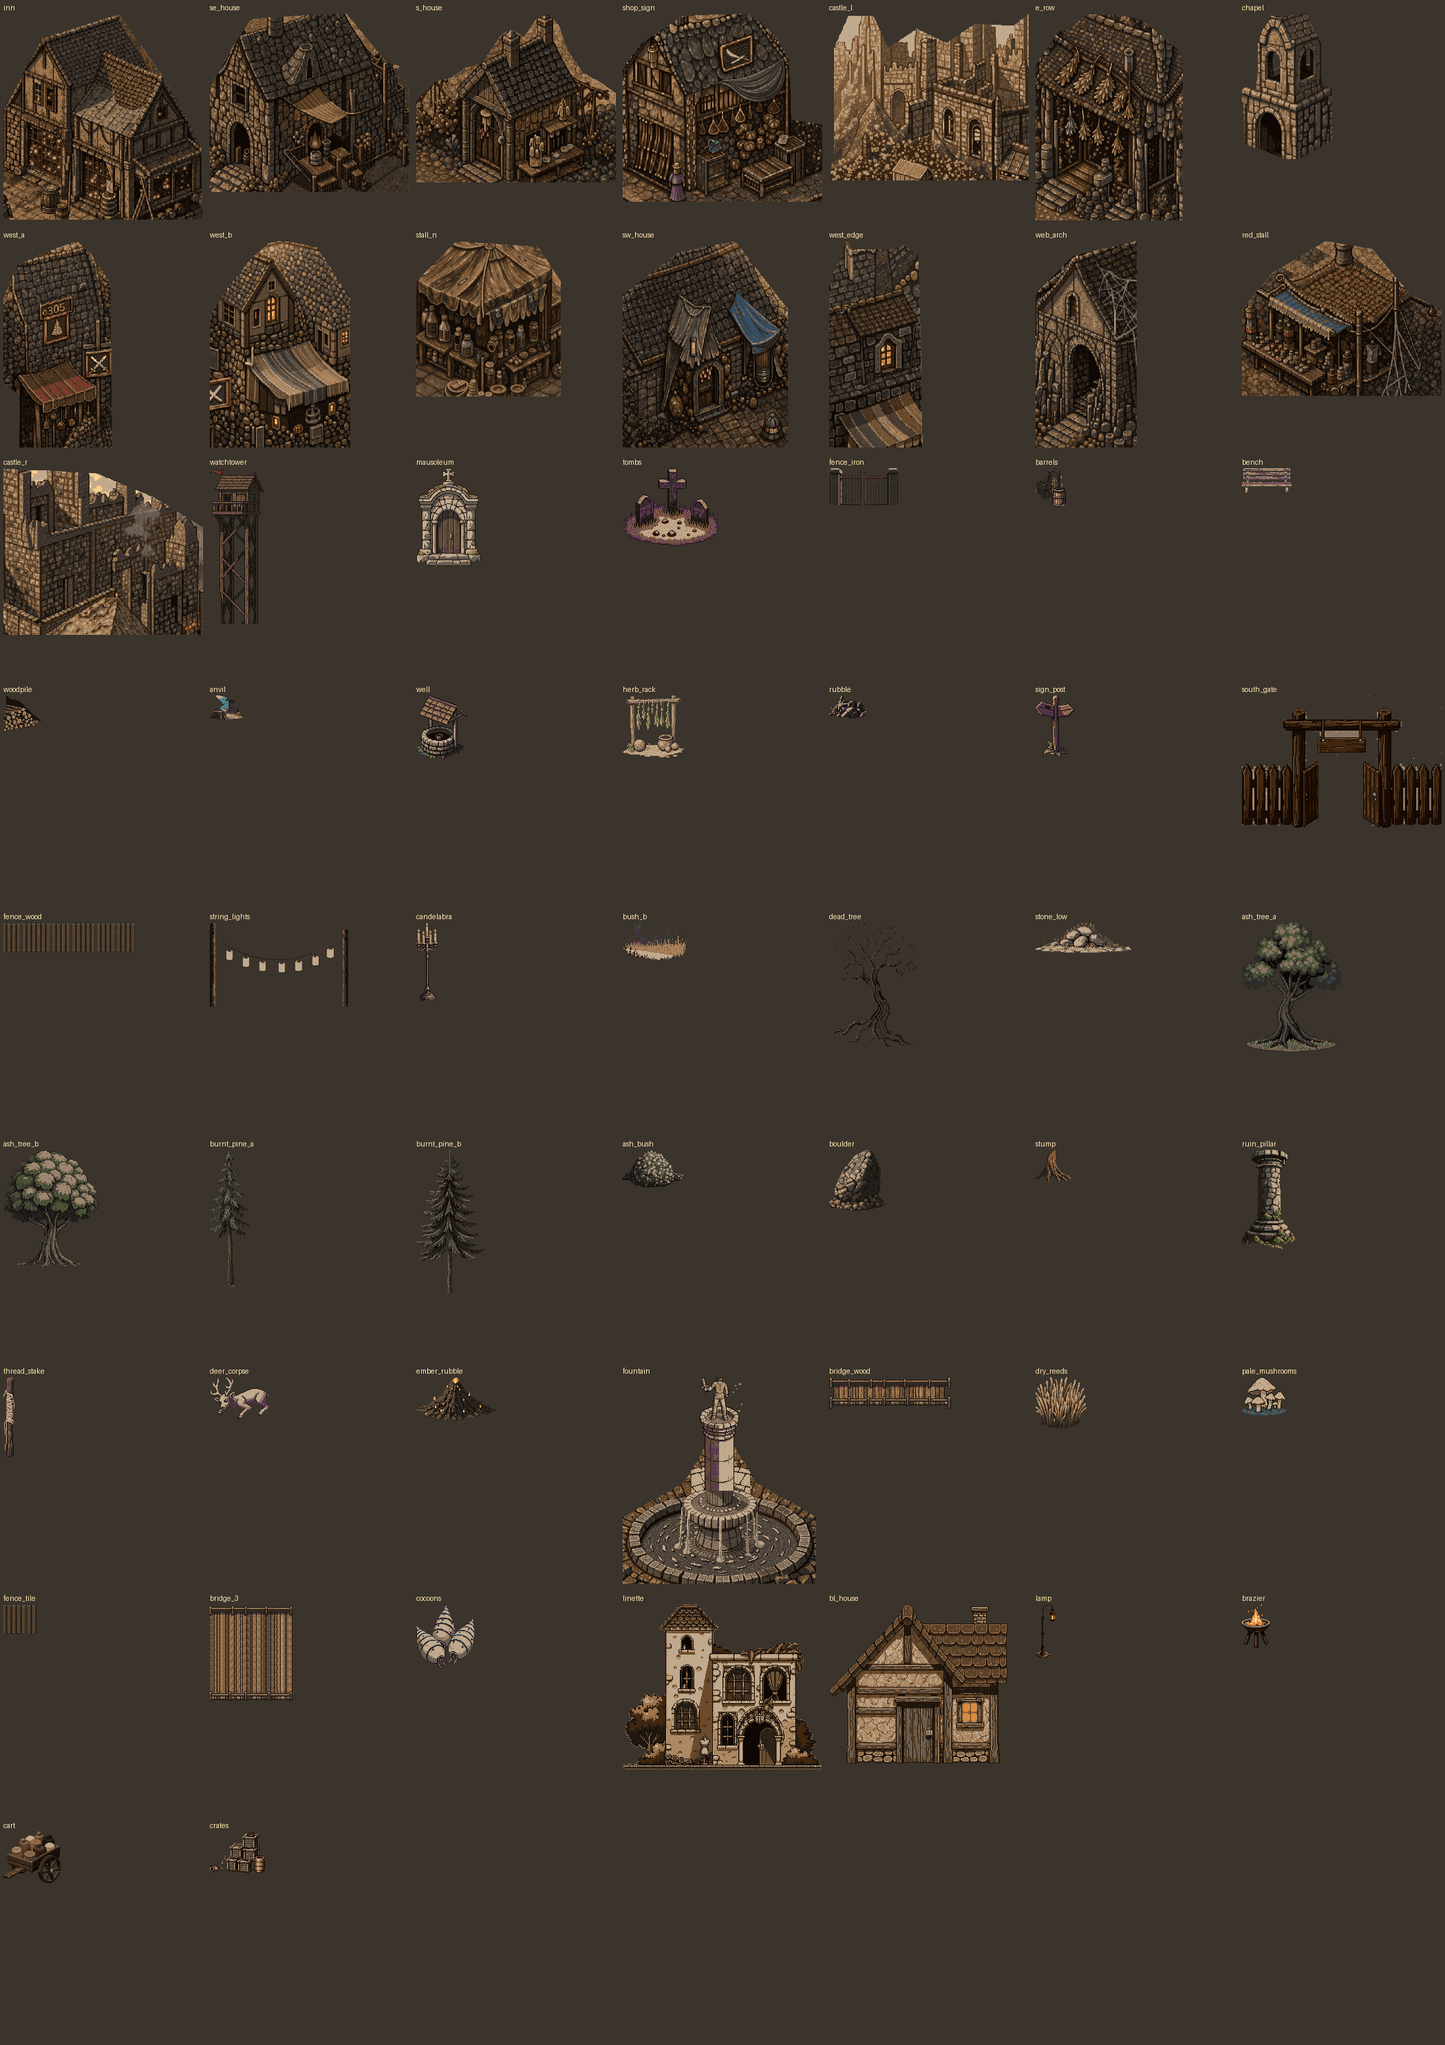
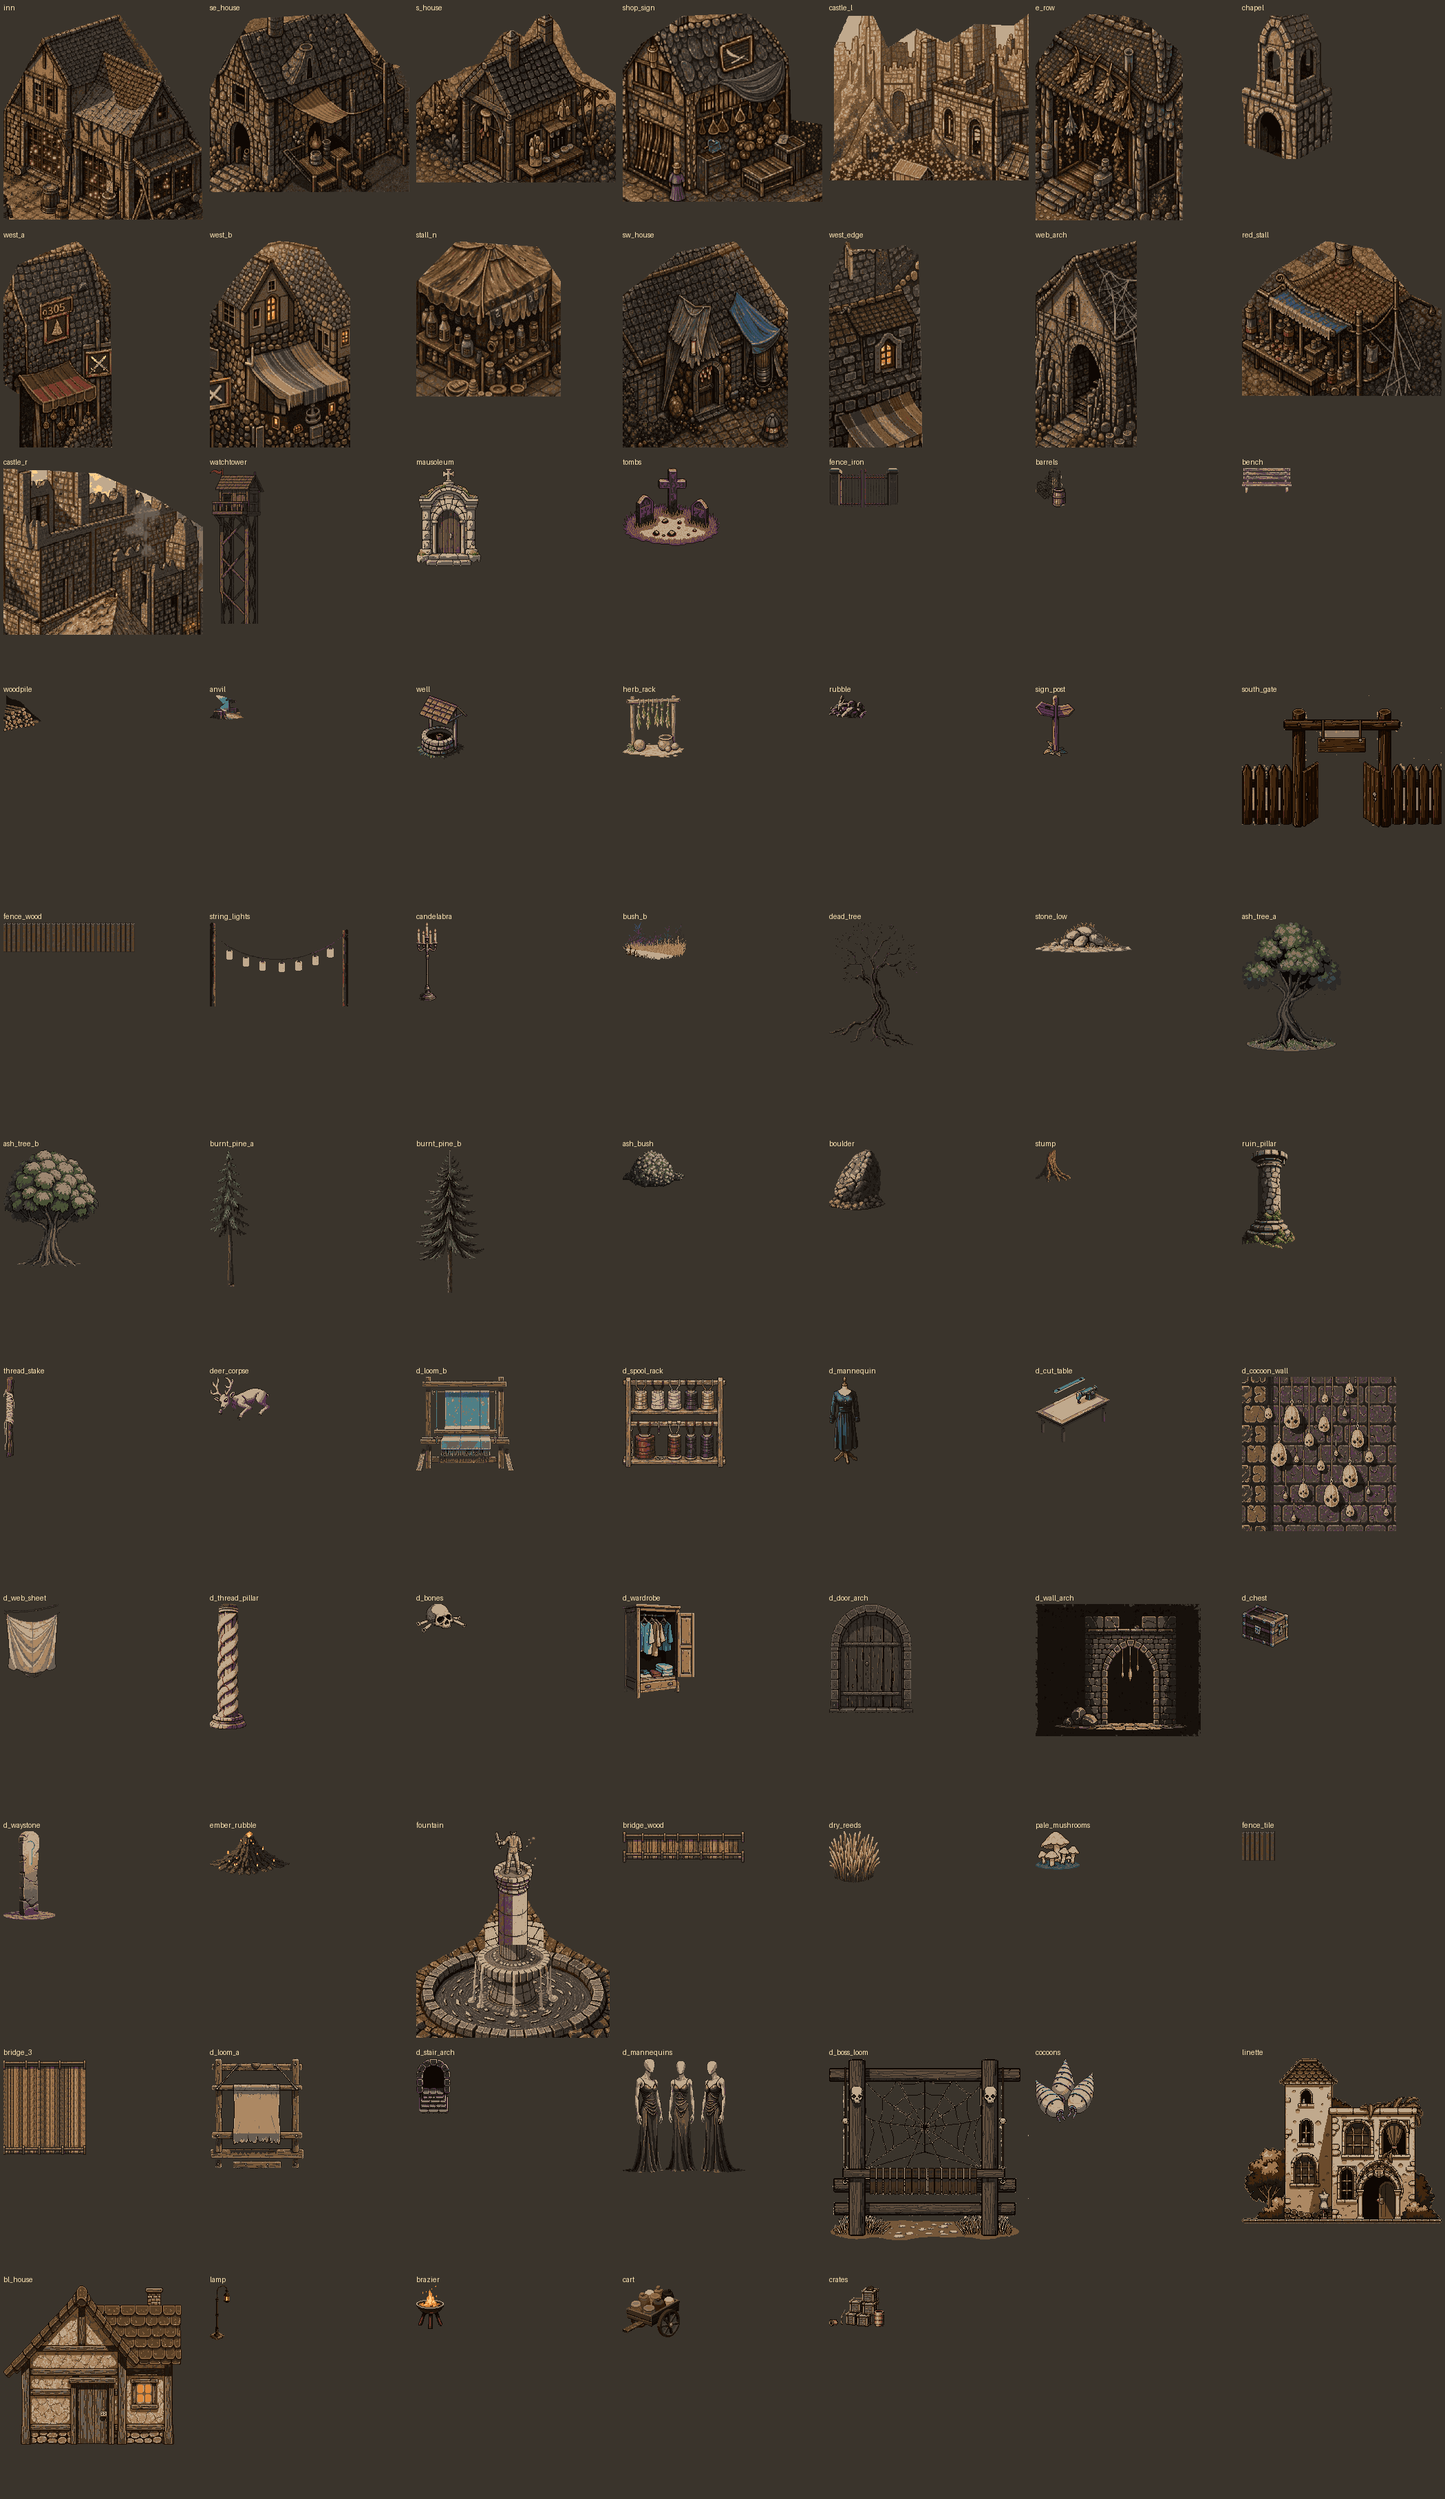
제1던전 아라크네의 폐공방 D=3 부품 17개
Claude-Session: https://claude.ai/code/session_01Ed92eTBNbhN1yf3zW3burX

diff --git a/handoff/claude/felt_grok_build/gen.py b/handoff/claude/felt_grok_build/gen.py
@@ -110,6 +110,30 @@ TEXT = {  # id: (크기, 설명) — init 없이 글자+색만, 투명 배경
  'bridge_wood2': ((224, 128), "wide wooden plank bridge crossing a small stream, planks laid side by side with low log railings on both sides, top-down view slightly from above, 16-bit JRPG", 17),
  'dry_reeds2':   ((96, 96), "large clump of tall dry pale tan reeds and dead grass blades, dense, seen from slightly above, 16-bit JRPG", 17),
  'pale_mushrooms2': ((80, 64), "cluster of six pale sickly white toadstool mushrooms of different sizes on dark soil, seen from slightly above, 16-bit JRPG", 17),
+ 'd_loom_a': ((192, 176), "large broken wooden weaving loom covered in pale threads and torn cloth, dusty, in a dark ruined workshop, seen from slightly above, 16-bit JRPG"),
+ 'd_loom_b': ((176, 160), "old wooden tapestry loom with a half-woven grey tapestry and snapped threads hanging, seen from slightly above, 16-bit JRPG", 5),
+ 'd_spool_rack': ((160, 144), "wooden rack of giant thread spools with pale silver and dark red thread, some unraveled, seen from slightly above, 16-bit JRPG"),
+ 'd_mannequins': ((176, 160), "three headless tailor dress mannequins in torn royal gowns, wrapped in spider silk, seen from slightly above, 16-bit JRPG"),
+ 'd_mannequin': ((80, 144), "single headless tailor dress mannequin on a wooden stand, torn dark gown, threads trailing, seen from slightly above, 16-bit JRPG"),
+ 'd_cut_table': ((192, 128), "long tailor's cutting table with giant shears, measuring tape, bolts of faded fabric and pins, seen from slightly above, 16-bit JRPG"),
+ 'd_fabric_pile': ((144, 96), "pile of rotting fabric bolts and torn cloth rolls, seen from slightly above, 16-bit JRPG"),
+ 'd_cocoon_wall': ((224, 224), "mass of many human-sized white silk cocoons stuck to a stone wall with thick webs, eerie, seen from slightly above, 16-bit JRPG"),
+ 'd_web_sheet': ((192, 160), "large thick spider web sheet stretched between two broken wooden beams, seen from slightly above, 16-bit JRPG"),
+ 'd_thread_pillar': ((96, 208), "ancient stone pillar tightly wrapped in pale spider silk and red thread, seen from slightly above, 16-bit JRPG"),
+ 'd_bones': ((112, 80), "small pile of old bones and a skull tangled in white threads, seen from slightly above, 16-bit JRPG"),
+ 'd_wardrobe': ((128, 176), "broken tall wooden wardrobe with open doors and moth-eaten royal garments, seen from slightly above, 16-bit JRPG"),
+ 'd_door_arch': ((160, 192), "heavy arched wooden door set in a dark stone wall, iron bands, threads across it, seen from the front slightly above, 16-bit JRPG"),
+ 'd_stairs_down': ((144, 144), "stone stairway descending into darkness through a square opening in a stone floor, seen from slightly above, 16-bit JRPG"),
+ 'd_wall_arch': ((240, 192), "section of dark ruined stone dungeon wall with a broken arch and hanging threads, front face, seen from slightly above, 16-bit JRPG"),
+ 'd_chest': ((96, 80), "old iron-bound wooden treasure chest, closed, seen from slightly above, 16-bit JRPG"),
+ 'd_waystone': ((80, 144), "ancient carved standing waystone with a faintly glowing pale blue rune, seen from slightly above, 16-bit JRPG"),
+ 'd_boss_loom': ((320, 304), "enormous ominous loom of souls made of black wood and bone, giant web woven into it with faint ghostly faces in the threads, centerpiece of a spider queen's lair, seen from slightly above, 16-bit JRPG"),
+ 'd_loom_a2': ((192, 176), "large broken wooden weaving loom filling the frame, big wooden frame with torn pale threads and hanging cloth, seen from slightly above, 16-bit JRPG", 17),
+ 'd_stairs2': ((160, 160), "large square stone stairwell opening in a stone floor with wide steps going down into darkness, stone rim, filling the frame, seen from slightly above, 16-bit JRPG", 17),
+ 'd_mannequins2': ((192, 176), "group of three tall headless tailor dress mannequins standing side by side in torn faded royal gowns, wrapped in spider silk, filling the frame, seen from slightly above, 16-bit JRPG", 17),
+ 'd_fabric_pile2': ((160, 112), "large heap of rotting fabric bolts, rolled cloth and torn curtains, filling the frame, seen from slightly above, 16-bit JRPG", 17),
+ 'd_boss_loom2': ((320, 304), "isolated enormous black wooden loom frame with a giant spider web woven between its beams, ghostly pale faces caught in the threads, bone decorations, transparent background, seen from slightly above, 16-bit JRPG", 17),
+ 'd_boss_loom3': ((320, 304), "isolated giant ominous throne-like loom of dark wood and bones with a huge web stretched across it and spools of red thread, transparent background, seen from slightly above, 16-bit JRPG", 29),
  'ember_rubble':   ((160, 96),  "pile of charred burned stone rubble and black beams with a few glowing orange embers, thin smoke, seen from slightly above, 16-bit JRPG", None, 'palette_32.png'),
 }
 

diff --git a/handoff/claude/felt_grok_build/pack.py b/handoff/claude/felt_grok_build/pack.py
@@ -60,9 +60,10 @@ def key(a, thr=14):   # 테두리와 이어진 단색 바탕 지우기
     c = a[0, 0, :3].astype(int); flat = np.abs(a[:, :, :3].astype(int) - c).sum(2) < thr
     fl, _ = ndimage.label(flat); e = set(np.unique(np.concatenate([fl[0], fl[-1], fl[:, 0], fl[:, -1]]))) - {0}
     a[:, :, 3] = np.where(np.isin(fl, list(e)), 0, a[:, :, 3]); return a
-SKIP = {'fountain_king', 'fountain_king2', 'cocoons', 'bush_a', 'bridge_wood', 'dry_reeds', 'pale_mushrooms'}   # 버린 판 (석상 분수는 아래 fountain 으로, 고치는 cocoons2)
+SKIP = {'fountain_king', 'fountain_king2', 'cocoons', 'bush_a', 'bridge_wood', 'dry_reeds', 'pale_mushrooms',
+        'd_loom_a', 'd_stairs_down', 'd_mannequins', 'd_fabric_pile', 'd_boss_loom', 'd_boss_loom3'}   # 던전: 작게 나온 1차·배경 박힌 판 버림   # 버린 판 (석상 분수는 아래 fountain 으로, 고치는 cocoons2)
 for pid in gen.TEXT:
-    if pid in SKIP: continue
+    if pid in SKIP or not os.path.exists(f'out/{pid}_t.png'): continue
     a = tight(key(np.array(Image.open(f'out/{pid}_t.png').convert('RGBA')))); Image.fromarray(a).save(f'final/{pid}.png')
     parts[pid] = {'img': f'{pid}.png', 'w': a.shape[1], 'h': a.shape[0], 'ax': a.shape[1] // 2, 'ay': a.shape[0] - 1, 'kind': 'prop'}
 # 분수 = 그록 분수 + 부서진 왕 석상 (3번방 배치 연구: 랜드마크·저장 비석 역할), 물은 마름
@@ -93,6 +94,20 @@ while y < H3 - bot.height:
 b3.alpha_composite(bot, (0, H3 - bot.height)); b3.save('final/bridge_3.png')
 parts['bridge_3'] = {'img': 'bridge_3.png', 'w': 120, 'h': H3, 'ax': 60, 'ay': H3 - 1, 'kind': 'prop', 'zone': 'field', 'flip': False,
                      'note': '세로 3칸 개울 다리 (가로로 건넘), 주인공 아래 깔기'}
+# 제1던전 「아라크네의 폐공방」 부품 (주인 10-23 「제1던전까지 만들어」): 2판 이름 정리 + zone
+for n, new in (('d_loom_a2', 'd_loom_a'), ('d_stairs2', 'd_stair_arch'), ('d_mannequins2', 'd_mannequins'), ('d_fabric_pile2', 'd_fabric_pile'), ('d_boss_loom2', 'd_boss_loom')):
+    if n in parts: parts[new] = parts.pop(n); parts[new]['img'] = new + '.png'; os.replace(f'final/{n}.png', f'final/{new}.png')
+# 보스 베틀: 거미줄 안쪽 갈색 바탕도 지움 (테두리와 안 이어져도 같은 바탕색이면 투명)
+if 'd_boss_loom' in parts:
+    src = np.array(Image.open('out/d_boss_loom2_t.png').convert('RGBA')); c = src[0, 0, :3].astype(int)
+    src[..., 3] = np.where(np.abs(src[..., :3].astype(int) - c).sum(2) < 16, 0, src[..., 3]); a = tight(src)
+    Image.fromarray(a).save('final/d_boss_loom.png'); parts['d_boss_loom'].update(w=a.shape[1], h=a.shape[0], ax=a.shape[1] // 2, ay=a.shape[0] - 1)
+DROLE = {'d_loom_a': '베틀(부서진)', 'd_loom_b': '태피스트리 베틀', 'd_spool_rack': '큰 실패 선반', 'd_mannequins': '마네킹 무리', 'd_mannequin': '마네킹 1',
+         'd_cut_table': '재단대', 'd_fabric_pile': '천 더미', 'd_cocoon_wall': '고치 벽(벽면 판)', 'd_web_sheet': '거미줄 막', 'd_thread_pillar': '실 감긴 기둥',
+         'd_bones': '뼈 더미', 'd_wardrobe': '옷장', 'd_door_arch': '아치 나무문', 'd_stair_arch': '계단 입구 아치', 'd_wall_arch': '아치 벽 조각',
+         'd_chest': '보물상자', 'd_waystone': '비석(순간이동)', 'd_boss_loom': '보스방: 해골 영혼 베틀(큰 장식)'}
+for n, r in DROLE.items():
+    if n in parts: parts[n]['zone'] = 'dungeon1'; parts[n]['role'] = r; parts[n]['flip'] = n in ('d_bones', 'd_fabric_pile', 'd_cocoon_wall')
 FIELD = {'T': ['ash_tree_a', 'ash_tree_b', 'dead_tree'], 'P': ['burnt_pine_a', 'burnt_pine_b'], 'Y': ['ash_tree_b'], 'u': ['bush_b', 'ash_bush'],
          'R': ['boulder'], 'r': ['stone_low'], 's': ['stump'], 'm': ['pale_mushrooms'], 'f': ['fence_tile'], 'O': ['ruin_pillar'],
          'c': ['thread_stake'], 'b': ['bridge_3'], '"': ['dry_reeds'], 'clue:f00_clue_corpse': ['deer_corpse']}

diff --git a/handoff/claude/felt_grok_build/README_ko.md b/handoff/claude/felt_grok_build/README_ko.md
@@ -41,3 +41,7 @@
 parts.json `field_legend`: 들판 지도 장식 칸 → 부품 (T 잿빛 나무 2+마른 나무 / P 불탄 소나무 2 / u 덤불 2 / R 바위 / r 돌무더기 / s 그루터기 / m 창백한 버섯 / f 나무 울타리 / O 무너진 기둥 / c 실 감긴 말뚝 / b 나무 다리 / " 마른 갈대 / 사슴 사체 단서).
 무료 손질: 소나무 청록 잎 → 잿빛 올리브, 잿빛 나무·덤불 초록 40% 빼기. 미리보기 `field_preview.png` (`python3 field_preview.py <field_felt.json>`, 바닥은 임시).
 버린 판: 다리·갈대·버섯 1차(너무 작거나 계단 모양).
+
+## 5차 — 제1던전 「아라크네의 폐공방」 부품 (주인 10-23 「제1던전까지, 크레딧 1000까지」) — 26크레딧 (199 → 222 + 실패 무료)
+parts.json zone 'dungeon1' 17개: 베틀 2 · 큰 실패 선반 · 마네킹 1·무리 · 재단대 · 고치 벽(벽면 판) · 거미줄 막 · 실 감긴 기둥 · 뼈 · 옷장 · 아치 나무문 · 계단 입구 아치 · 아치 벽 조각 · 보물상자 · 비석 · 보스방 해골 영혼 베틀(거미줄 안 투명). 확인 그림 `dungeon_sheet.png`.
+버린 판: 작게 나온 1차(베틀·계단·마네킹 무리), 배경 박힌 보스 베틀 1차, 왕좌형(boss_loom3), 천 더미(서버 혼잡으로 실패 — 무료).
